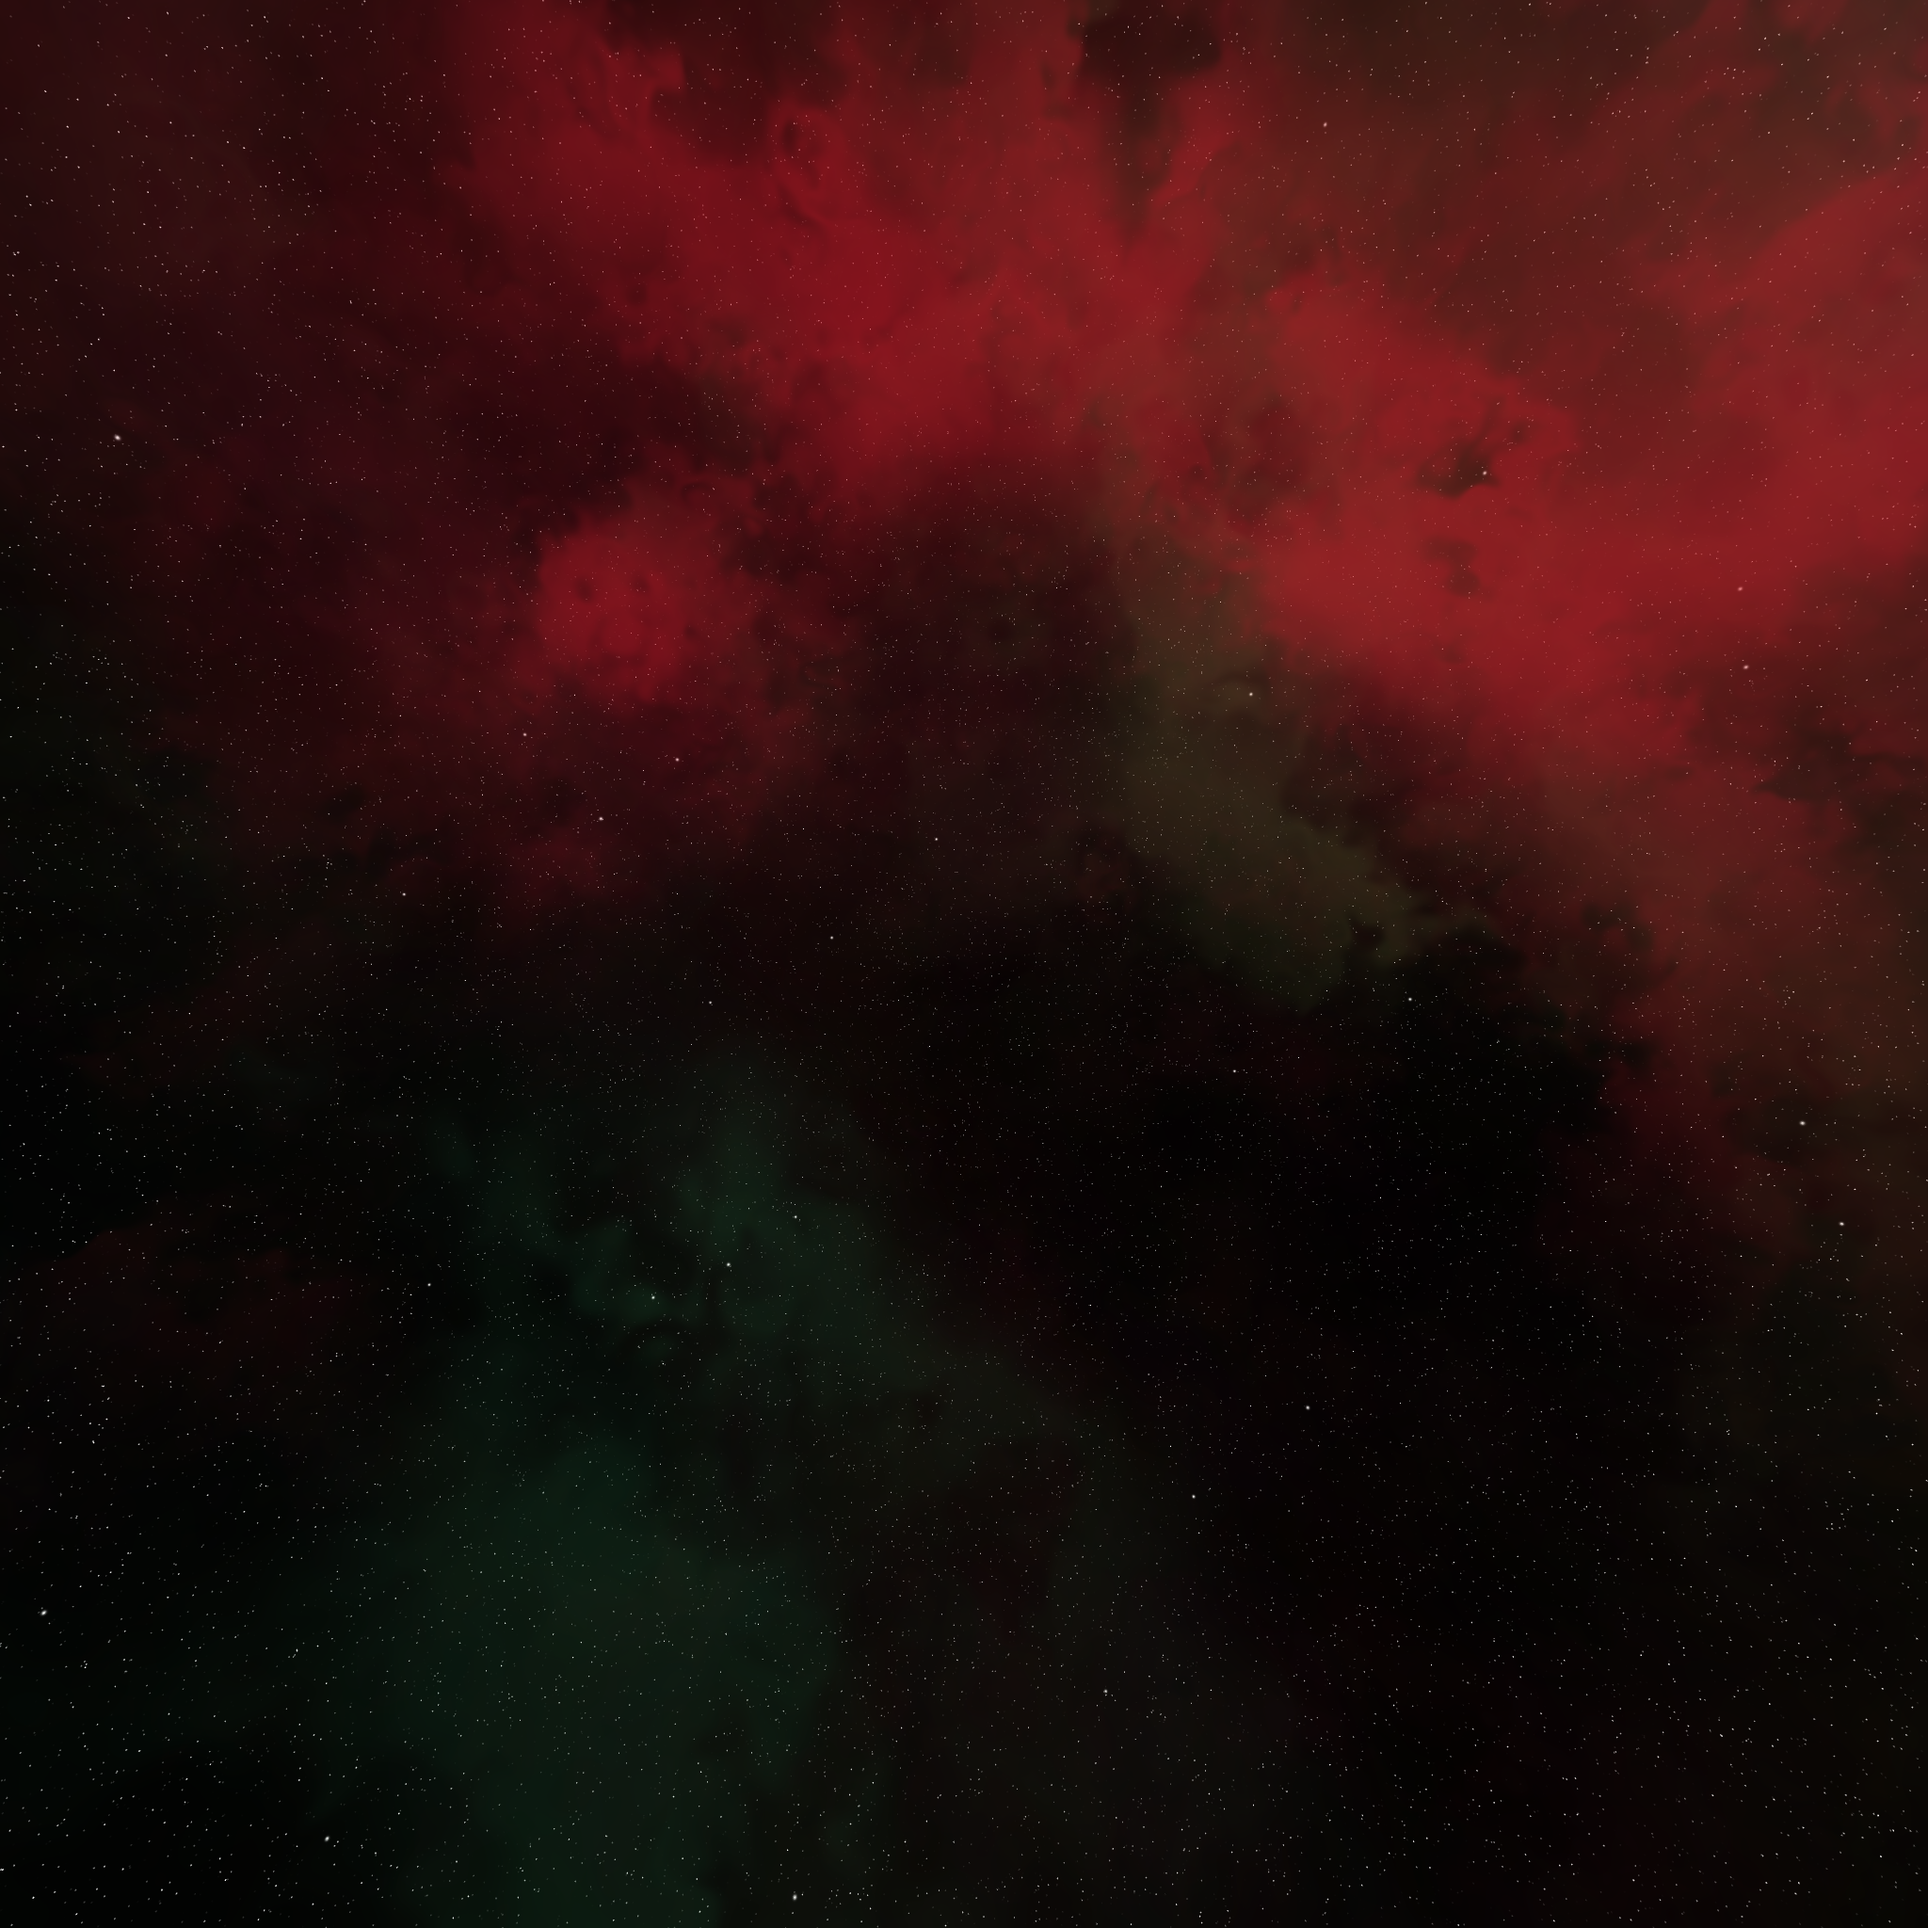
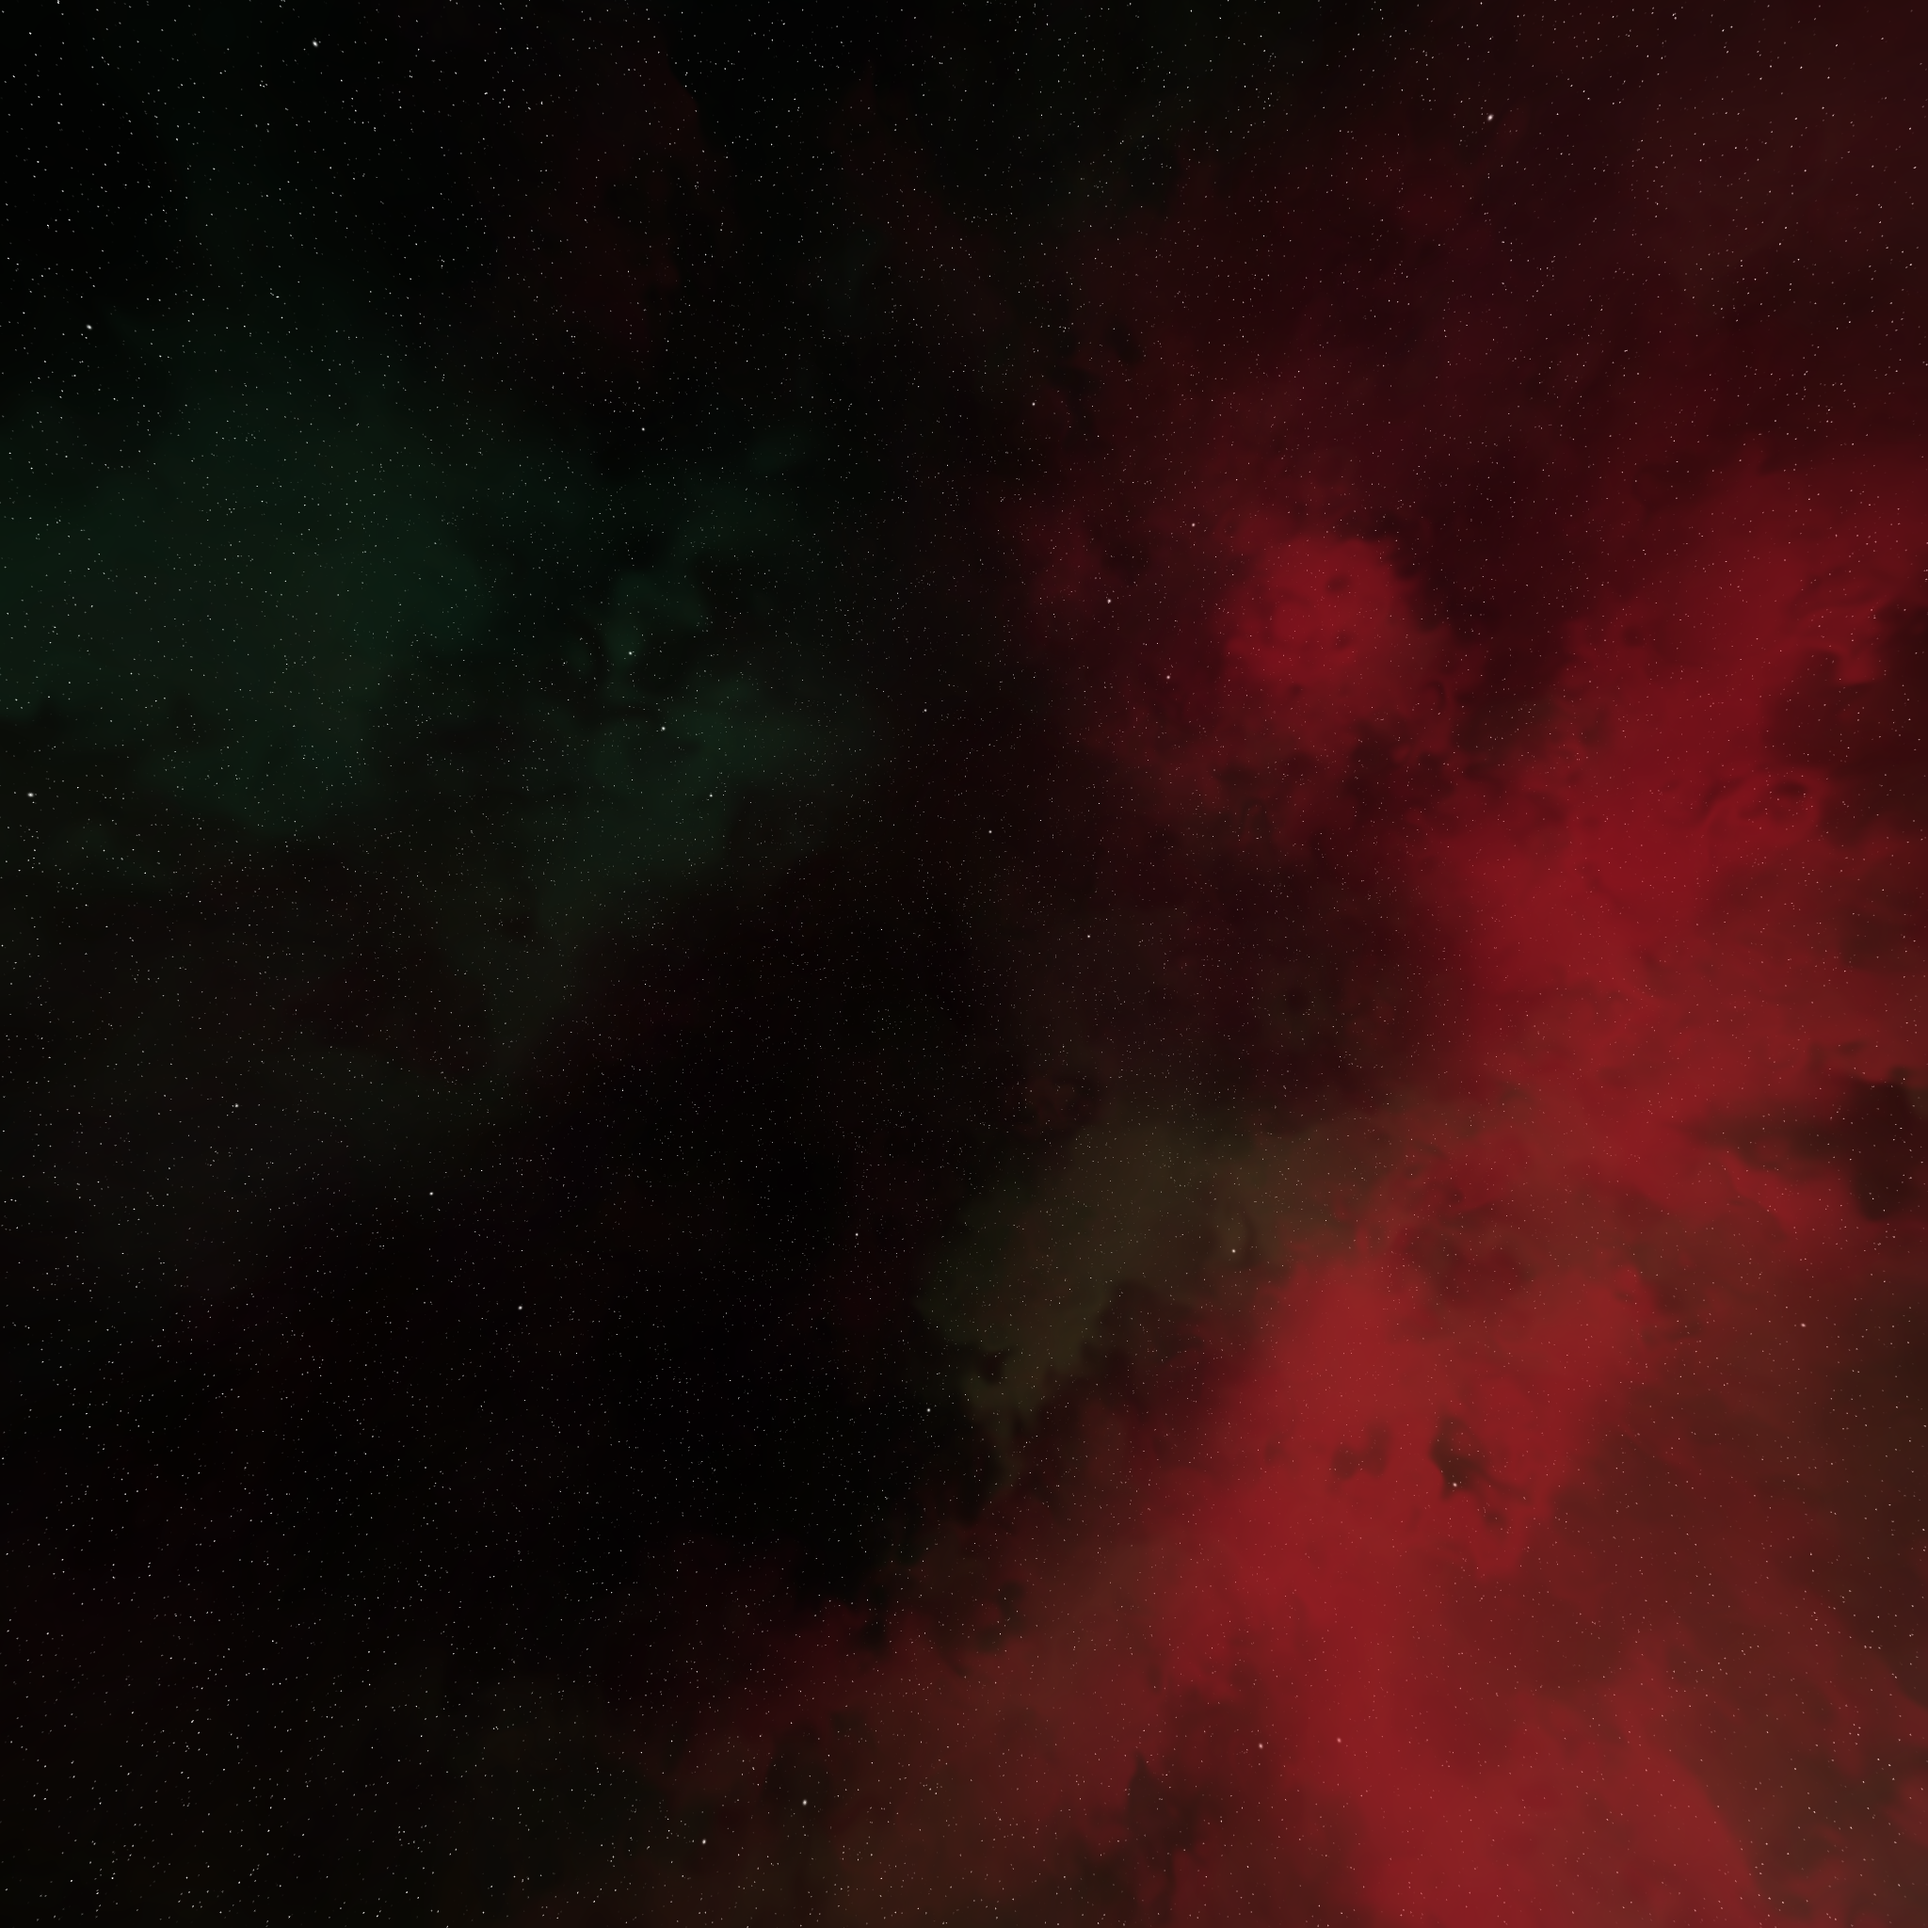
fix: working space box asset alignment

diff --git a/src/actions.ts b/src/actions.ts
@@ -31,7 +31,7 @@ function setup(canvas: HTMLCanvasElement) {
   const [nearPlane, farPlane] = [0.1, 3e3];
 
   camera = new PerspectiveCamera(fieldOfView, aspectRatio, nearPlane, farPlane);
-  camera.position.set(0, 15, 100);
+  camera.position.set(0, 0, 100);
 
   controls = new OrbitControls(camera, canvas);
   controls.minDistance = 25;
@@ -81,16 +81,14 @@ function stop() {
 function animate() {
   const delta = clock.getDelta();
 
-  if (isPaused) {
-    renderer.render(scene, camera);
+  renderer.render(scene, camera);
 
+  if (isPaused) {
     return;
   }
 
   requestAnimationFrame(animate);
   updateSpinningPlanet({ delta });
-
-  renderer.render(scene, camera);
 }
 
 /* -----------------------------------
